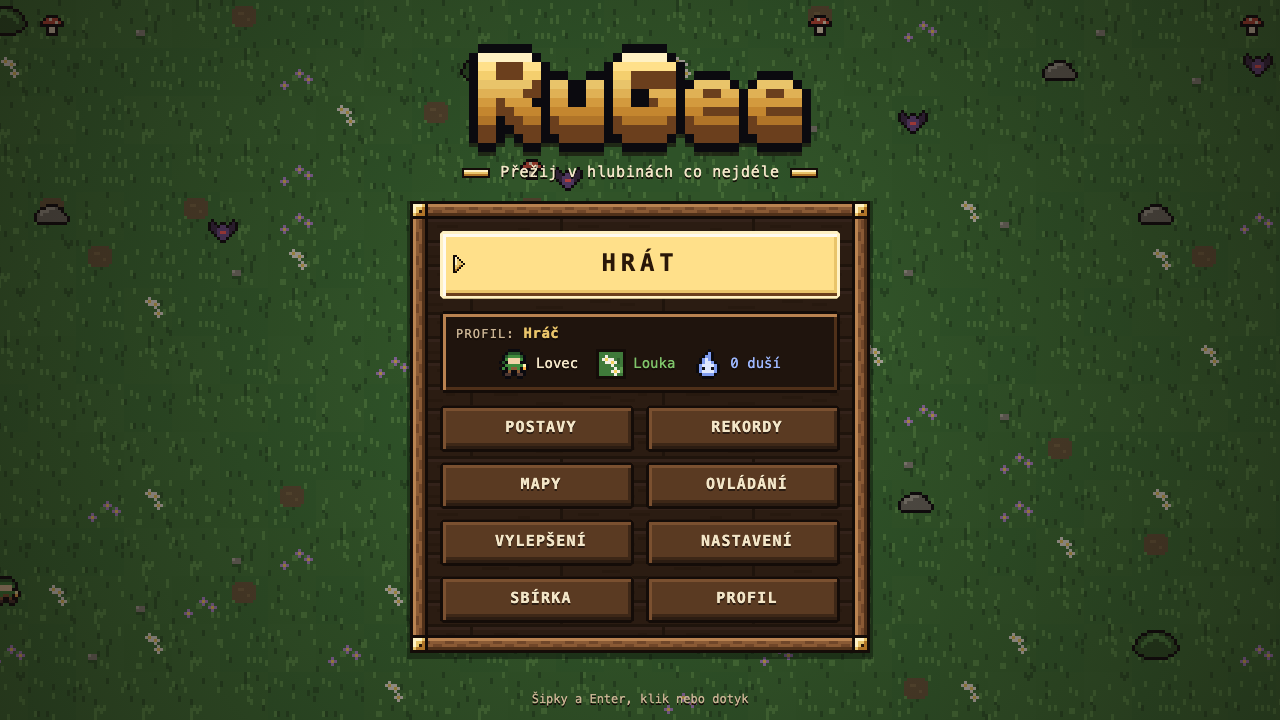
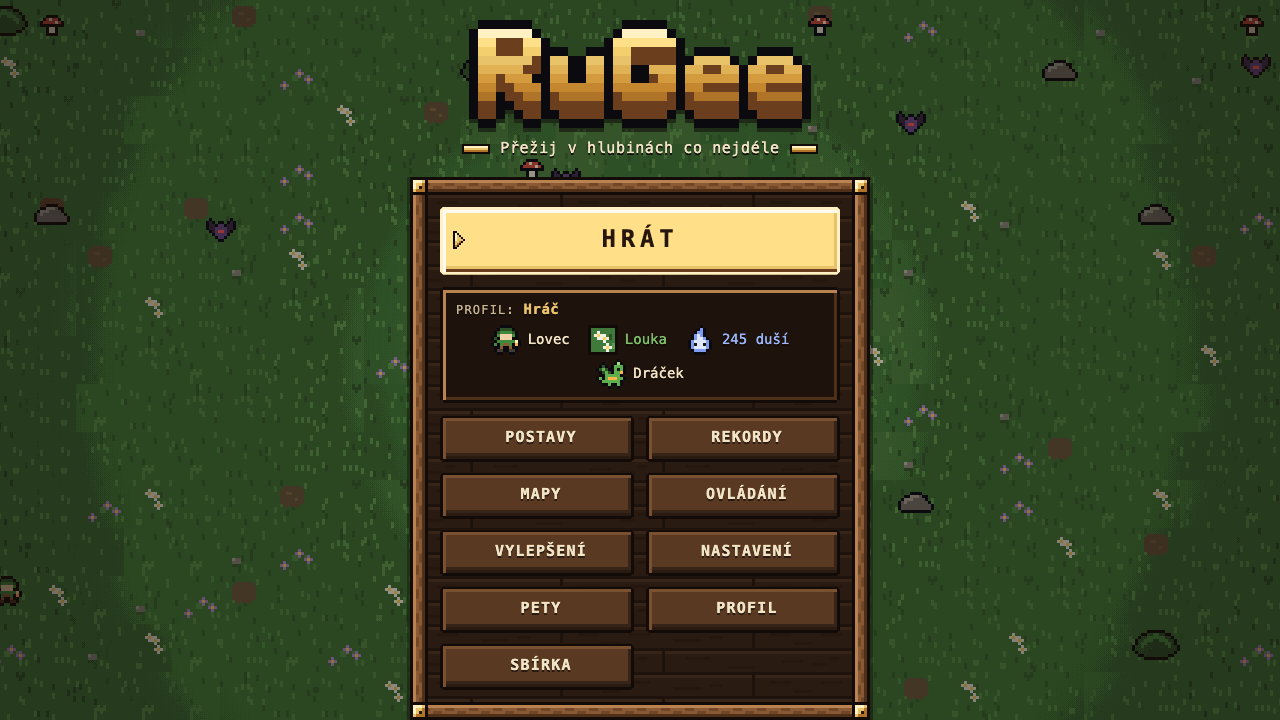
Ukázky: nový GIF s dráčkem, fotky stromu, líhně a Sopky
natoc.mjs hraje s ukázkovým profilem (třetina stromu vylepšení, 7 petů
s dráčkem ve hře, odemčené mapy, zapsané funkcemi hry) a z menu vyfotí
okno stromu a líheň. --mapa natočí jinou mapu (sopka.png = boj na Sopce),
--profil prazdny hraje za nového hráče. Uspání počítače při natáčení už
do videa nedoplňuje hodiny stejných snímků.

diff --git a/nastroje/ukazky.py b/nastroje/ukazky.py
@@ -3,11 +3,12 @@
 
 Spustí hru na lokálním serveru a nechá ji natočit nastroje/natoc.mjs (Node + Playwright, jednoduchý bot hraje).
 Z videa vybere nejakčnější úsek podle změn mezi snímky (mimo okna úrovní, obchodu a konce hry) a udělá z něj
-GIF kolem hrdiny bez horní lišty a přehledu výbavy, nanejvýš 4 MB. K tomu uloží 3 screenshoty: menu, boj
-(ten z nejakčnější chvíle) a okno nové úrovně.
+GIF kolem hrdiny bez horní lišty a přehledu výbavy, nanejvýš 4 MB. K tomu uloží screenshoty: menu, strom
+vylepšení a líheň s pety (z ukázkového profilu, viz natoc.mjs), boj (z nejakčnější chvíle) a okno nové úrovně.
 
   python3 nastroje/ukazky.py                              # natočí 230 s, výstup do docs/ukazky
   python3 nastroje/ukazky.py --sekund 120 --delka 5
+  python3 nastroje/ukazky.py --mapa sopka --sekund 150 --vystup /tmp/sopka   # jiná mapa (fotka boje pro README)
   python3 nastroje/ukazky.py --prace /tmp/natoceni        # natočení (video, osa.json, fotky) si nechá
   python3 nastroje/ukazky.py --z-natoceni /tmp/natoceni   # nenatáčí, jen znovu vybere úsek a udělá výstup
 
@@ -86,9 +87,9 @@ def natoc(args, prace: Path, ffmpeg: str):
     with lokalni_server(KOREN) as adresa:
         prikaz = [
             args.node, str(NATOC), "--url", f"{adresa}?seed={args.seed}", "--vystup", str(prace),
-            "--sekund", str(args.sekund), "--ffmpeg", ffmpeg,
+            "--sekund", str(args.sekund), "--ffmpeg", ffmpeg, "--mapa", args.mapa, "--profil", args.profil,
         ]
-        print(f"Natáčím {args.sekund} s hry (semínko {args.seed}) …", flush=True)
+        print(f"Natáčím {args.sekund} s hry (semínko {args.seed}, mapa {args.mapa}, profil {args.profil}) …", flush=True)
         beh = subprocess.run(prikaz, cwd=KOREN)
         if beh.returncode != 0:
             sys.exit(f"natoc.mjs skončil s kódem {beh.returncode}")
@@ -267,6 +268,10 @@ def zpracuj(args, natoceni: Path, ffmpeg: str):
     menu = natoceni / "menu.png"
     if menu.exists():
         fotky["menu"] = uloz_png(menu, vystup / "menu.png")
+    # Okna z menu jsou jen s ukázkovým profilem (u nového hráče by byla prázdná).
+    for okno in ("strom", "pety"):
+        if (natoceni / f"{okno}.png").exists():
+            fotky[okno] = uloz_png(natoceni / f"{okno}.png", vystup / f"{okno}.png")
     boje = [s for s in osa["snimky"] if s["druh"] == "boj" and not any(od <= s["t"] <= do for od, do in spatne)]
     if boje:
         nej = max(boje, key=lambda s: akce_kolem(skore, s["t"]))
@@ -276,13 +281,15 @@ def zpracuj(args, natoceni: Path, ffmpeg: str):
     if uroven:
         fotky["uroven"] = uloz_png(natoceni / uroven["soubor"], vystup / "uroven.png")
         fotky["uroven"]["uroven"] = uroven.get("uroven")
-    for chybi in {"menu", "boj", "uroven"} - fotky.keys():
+    cekane = {"menu", "boj", "uroven"} | ({"strom", "pety"} if osa.get("profil", {}).get("druh") == "ukazka" else set())
+    for chybi in cekane - fotky.keys():
         print(f"Pozor: fotka {chybi} nevznikla, ve {vystup} zůstává stará.", file=sys.stderr)
 
     cas_hry = [v[2] for v in osa["vzorky"] if zacatek <= v[0] <= zacatek + args.delka]
     info = {
         "otisk_kodu": otisk_kodu(),
         "seminko": args.seed,
+        "profil": osa.get("profil"),
         "natoceno_s": round(osa.get("delkaVidea", osa.get("konec", 0)), 1),
         "her": osa.get("her", 1),
         "usek_videa_s": [round(zacatek, 1), round(zacatek + gif["sekund"], 1)],
@@ -301,6 +308,9 @@ def main():
     parser = argparse.ArgumentParser(description="Ukázky RuGee: natočí hru botem a udělá GIF a screenshoty do docs/ukazky.")
     parser.add_argument("--sekund", type=int, default=230, help="jak dlouho bot hraje (230 s stihne prvního bosse)")
     parser.add_argument("--seed", type=int, default=1, help="semínko vln (?seed= v adrese hry, 1)")
+    parser.add_argument("--mapa", default="louka", help="na které mapě bot hraje (louka)")
+    parser.add_argument("--profil", default="ukazka", choices=("ukazka", "prazdny"),
+                        help="ukazka = rozehraný hráč se stromem a pety, prazdny = nový hráč (ukazka)")
     parser.add_argument("--delka", type=float, default=6.0, help="délka GIFu v sekundách (6)")
     parser.add_argument("--max-mb", type=float, default=4.0, dest="max_mb", help="nejvyšší velikost GIFu v MB (4)")
     parser.add_argument("--max-sirka", type=int, default=560, dest="max_sirka", help="nejširší výřez GIFu v px (560)")

diff --git a/docs/PODROBNOSTI.md b/docs/PODROBNOSTI.md
@@ -218,14 +218,18 @@ Jednu hru se strojovým výstupem pustí i sama simulace: `node tests/simulace.m
 ## Ukázky
 
 <img src="ukazky/menu.png" alt="Hlavní menu" width="32%"> <img src="ukazky/boj.png" alt="Boj uprostřed hordy" width="32%"> <img src="ukazky/uroven.png" alt="Okno nové úrovně" width="32%">
+<img src="ukazky/strom.png" alt="Strom vylepšení" width="32%"> <img src="ukazky/pety.png" alt="Líheň s pety" width="32%"> <img src="ukazky/sopka.png" alt="Boj na Sopce" width="32%">
 
 ```bash
 python3 nastroje/ukazky.py
+python3 nastroje/ukazky.py --mapa sopka --sekund 150 --vystup /tmp/sopka   # pak /tmp/sopka/boj.png → docs/ukazky/sopka.png
 ```
 
-GIF v README a tři screenshoty v `docs/ukazky/` (menu, boj a okno nové úrovně) dělá `nastroje/ukazky.py`. Pustí hru na lokálním serveru a `nastroje/natoc.mjs` ji v Chromiu bez okna (Playwright) nechá hrát jednoduchým botem: utíká od nepřátel, sbírá krystaly, na úrovni bere nejdřív zbraně, od kupce hned odejde a po prohře dá Znovu. Stav hry vidí přes jeden řádek připsaný jen do natáčené kopie `src/main.js`, soubor v repu se nemění. Natáčí se 230 s se semínkem 1, aby přišel i první boss. Snímky jdou z prohlížeče v PNG rovnou do ffmpeg: celá obrazovka do `video.mkv`, střed kolem hrdiny bezeztrátově do `stred.mkv` (vestavěné video Playwrightu pixel art rozmaže a GIF z něj vyjde čtyřikrát větší). Python pak spočítá, jaká část výřezu se mezi snímky změní, a vezme nejakčnějších 6 s, ve kterých není žádné okno ani cuknutí. Výřez se drží kolem hrdiny a vyhne se horní liště, přehledu výbavy i nápovědě. GIF má vlastní paletu bez rozptylu barev, takže pixely zůstanou ostré; kdyby měl přes 4 MB, zkusí méně snímků, méně barev nebo kratší úsek. Fotka boje je ta z nejakčnější chvíle, okno úrovně první po 40 s hry. Do `docs/ukazky/ukazky.json` se zapíše otisk kódu, úsek videa, čas ve hře a velikosti souborů.
+GIF v README a screenshoty v `docs/ukazky/` (menu, strom vylepšení, líheň s pety, boj a okno nové úrovně) dělá `nastroje/ukazky.py`. Pustí hru na lokálním serveru a `nastroje/natoc.mjs` ji v Chromiu bez okna (Playwright) nechá hrát jednoduchým botem: utíká od nepřátel, sbírá krystaly, na úrovni bere nejdřív zbraně, od kupce hned odejde a po prohře dá Znovu. Stav hry vidí přes jeden řádek připsaný jen do natáčené kopie `src/main.js`, soubor v repu se nemění. Natáčí se 230 s se semínkem 1, aby přišel i první boss. Snímky jdou z prohlížeče v PNG rovnou do ffmpeg: celá obrazovka do `video.mkv`, střed kolem hrdiny bezeztrátově do `stred.mkv` (vestavěné video Playwrightu pixel art rozmaže a GIF z něj vyjde čtyřikrát větší). Python pak spočítá, jaká část výřezu se mezi snímky změní, a vezme nejakčnějších 6 s, ve kterých není žádné okno ani cuknutí. Výřez se drží kolem hrdiny a vyhne se horní liště, přehledu výbavy i nápovědě. GIF má vlastní paletu bez rozptylu barev, takže pixely zůstanou ostré; kdyby měl přes 4 MB, zkusí méně snímků, méně barev nebo kratší úsek. Fotka boje je ta z nejakčnější chvíle, okno úrovně první po 40 s hry.
 
-Potřebuje Python 3.9+ s Pillow, Node, ffmpeg a Playwright s Chromiem (`npm i playwright && npx playwright install chromium`, nebo `PLAYWRIGHT_MODUL=/cesta/k/node_modules/playwright`). Volby: `--sekund 120`, `--seed 3`, `--delka 5`, `--max-mb 3`, `--vystup jinam` (jinak se přepíše `docs/ukazky`), `--prace slozka` (natočení si nechá) a `--z-natoceni slozka` (nenatáčí, jen znovu vybere úsek a udělá výstup). Ukázky přegeneruj po větší změně vzhledu a commitni je; každá nová verze GIFu přidá do historie repa pár MB, tak ne po každé drobnosti.
+Hraje se s ukázkovým profilem (`--profil ukazka`), ať jsou vidět i trvalé věci: před natáčením se do čistého profilu prohlížeče funkcemi hry zapíše třetina stromu vylepšení (vždy nejlevnější další úroveň, takže je strom rozkoupaný od středu do všech větví), 7 petů s epickým dráčkem ve hře, 2 vejce a odemčené všechny mapy. Z menu se pak vyfotí okno stromu a líheň. `--profil prazdny` hraje za nového hráče jako dřív, bez těchhle dvou fotek. `--mapa sopka` natočí jinou mapu; fotka boje ze Sopky v README (`sopka.png`) je `boj.png` z takového běhu. Když se počítač při natáčení uspí, díra ve snímcích se do videa nedoplňuje (dřív ffmpeg po probuzení kódoval hodiny stejného snímku), začátek videa se jen posune. Do `docs/ukazky/ukazky.json` se zapíše otisk kódu, úsek videa, čas ve hře a velikosti souborů.
+
+Potřebuje Python 3.9+ s Pillow, Node, ffmpeg a Playwright s Chromiem (`npm i playwright && npx playwright install chromium`, nebo `PLAYWRIGHT_MODUL=/cesta/k/node_modules/playwright`). Volby: `--sekund 120`, `--seed 3`, `--mapa sopka`, `--profil prazdny`, `--delka 5`, `--max-mb 3`, `--vystup jinam` (jinak se přepíše `docs/ukazky`), `--prace slozka` (natočení si nechá) a `--z-natoceni slozka` (nenatáčí, jen znovu vybere úsek a udělá výstup). Ukázky přegeneruj po větší změně vzhledu a commitni je; každá nová verze GIFu přidá do historie repa pár MB, tak ne po každé drobnosti.
 
 ### Náhled odkazu
 
